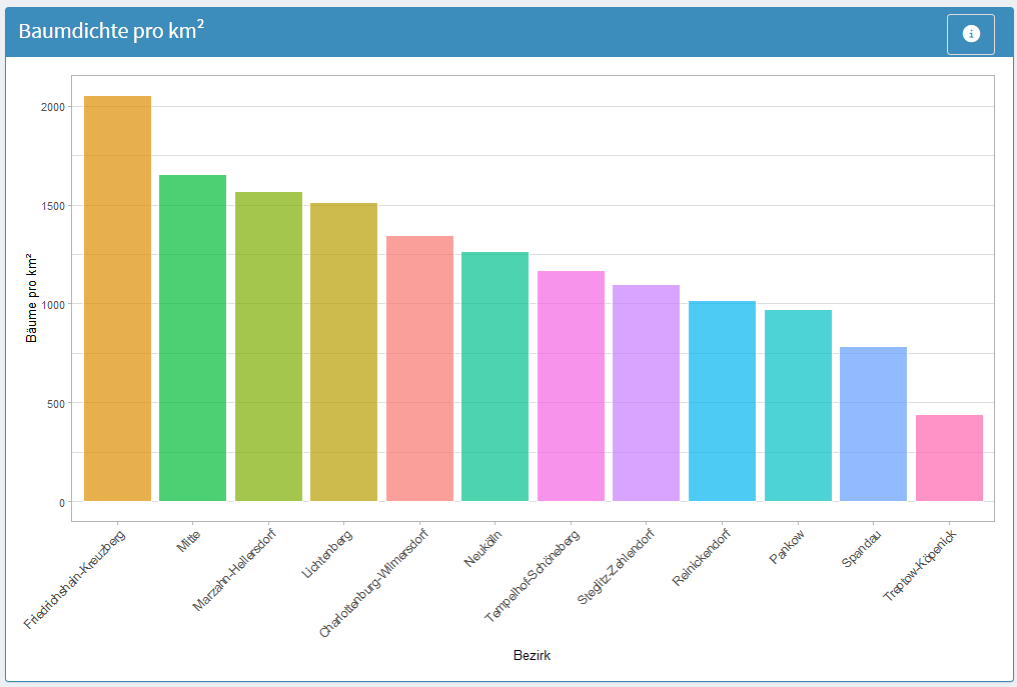
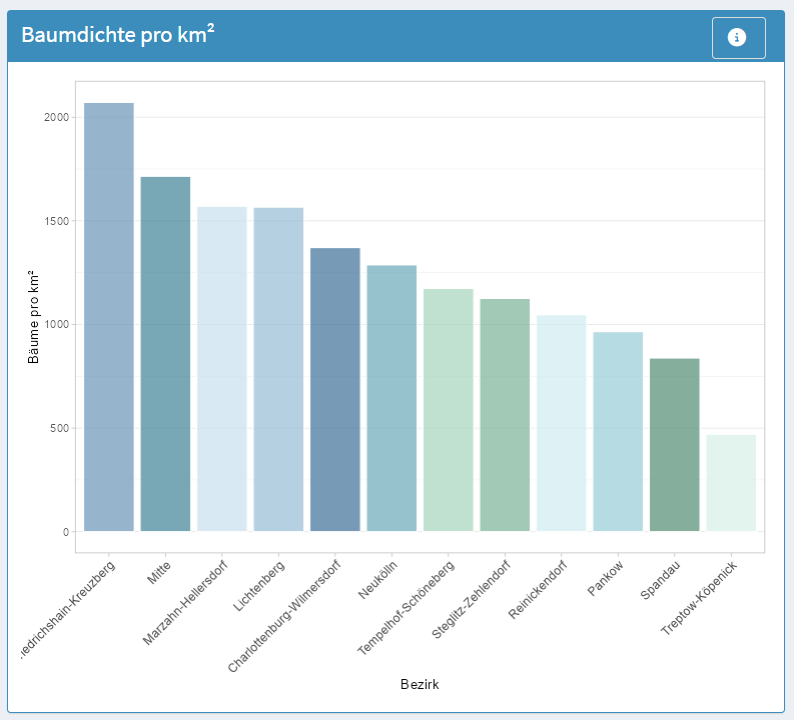
Update: 5.5

diff --git a/dashboard/Übung_Baumstatistik.md b/dashboard/Übung_Baumstatistik.md
@@ -43,6 +43,7 @@ Damit soll die Grundlage geschaffen werden, zu verstehen, welche strukturellen F
 ---
 name: Dashboard Karte
 alt: Ein Screenshot, der zeigt Dashboard Karte
+width: 600px
 ---
 Baumverteilung nach Bezirken und Baumgattungen. Die Abbildung zeigt die Verteilung der Bäume in den Berliner Bezirken, aufgeschlüsselt nach Baumgattungen. Die Anzahl der Bäume ist für jeden Bezirk als gestapeltes Balkendiagramm dargestellt, wobei die einzelnen Farbsegmente unterschiedliche Baumgattungen repräsentieren. Über einen Schieberegler kann die Anzahl der angezeigten, häufigsten Baumgattungen (Top-N) interaktiv angepasst werden, während weniger häufige Gattungen unter „Sonstige“ zusammengefasst sind. (Quelle: eigene Ausarbeitung)
 ``` 
@@ -64,7 +65,7 @@ Das obenstehende Diagramm ist ein Kreisdiagramm (auch Tortendiagramm genannt), d
 ---
 name: Dashboard Karte
 alt: Ein Screenshot, der zeigt Dashboard Karte
-width: 650px
+width: 600px
 ---
 Top 10 gegossene Baumgattungen. Die Abbildung zeigt die Top 10 gegossenen Baumgattungen in Berlin in Form eines horizontalen Balkendiagramms. Über ein Auswahlfeld kann der betrachtete Bezirk festgelegt werden, wodurch sich die dargestellten Werte entsprechend anpassen. Die Balken repräsentieren die absolute Anzahl gegossener Bäume je Gattung, wobei die Linde mit deutlichem Abstand an erster Stelle steht, gefolgt von Ahorn (ca. 250.000) und weiteren Gattungen mit jeweils deutlich geringeren Werten. Die x-Achse zeigt die Anzahl gegossener Bäume, die y-Achse die Baumgattungen. (Quelle: eigene Ausarbeitung)
 ``` 
@@ -229,10 +230,12 @@ Das erste Diagramm soll zeigen, wie viele Bäume in jedem Bezirk stehen und welc
 ```r  
 # 1. Stacked Bar Chart - Baumverteilung mit Gattungen
   output$tree_distribution_stacked <- renderPlot({
+    n_gen <- input$top_n_species
+    
     top_genera <- df_merged %>%
       filter(!is.na(gattung_deutsch)) %>%   
       count(gattung_deutsch, sort = TRUE) %>%
-      head(input$top_n_species) %>%
+      head(n_gen) %>%
       pull(gattung_deutsch)
 ```
 ````
@@ -242,9 +245,10 @@ Das erste Diagramm soll zeigen, wie viele Bäume in jedem Bezirk stehen und welc
 
 **Top-Gattungen ermitteln:**
 
+- `n_gen <- input$top_n_species` – speichert den Slider-Wert in einer Variable
 - `filter(!is.na(gattung_deutsch))` – entfernt Bäume ohne Gattungsangabe
 - `count(gattung_deutsch, sort = TRUE)` – zählt jede Gattung und sortiert absteigend
-- `head(input$top_n_species)` – wählt die Top-N häufigsten Gattungen (über UI-Slider steuerbar)
+- `head(n_gen)` – wählt die Top-N häufigsten Gattungen (gesteuert durch die Variable `n_gen`)
 - `pull(gattung_deutsch)` – extrahiert die Gattungsnamen als Vektor
 
 Diese Gattungsliste verwenden Sie später, um alle anderen Gattungen als "Sonstige" zu kennzeichnen.
@@ -293,21 +297,21 @@ Mit den aggregierten Daten erstellen Sie nun das gestapelte Balkendiagramm, das 
     df_agg$gattung_grouped <- factor(df_agg$gattung_grouped, 
                                      levels = c(top_genera, "Sonstige"))
     
+    # "Sonstige" bekommt Grau; Rest aus globaler Palette
+    n_gen <- input$top_n_species
+    fill_vals <- c(colorRampPalette(GDK_PALETTE_BASE)(n_gen), "#D3D3D3")
+    names(fill_vals) <- c(top_genera, "Sonstige")
+    
     ggplot(df_agg, aes(x = reorder(bezirk, count, sum), y = count, fill = gattung_grouped)) +
-      geom_bar(stat = "identity", position = "stack", color = "white", size = 0.3) +
-      labs(
-        title = NULL,
-        x = "Bezirk",
-        y = "Anzahl Bäume",
-        fill = "Baumgattung"
-      ) +
+      geom_bar(stat = "identity", position = "stack", color = "white", linewidth = 0.3) +
+      scale_fill_manual(values = fill_vals, name = "Baumgattung") +
+      labs(x = "Bezirk", y = "Anzahl Bäume") +
       theme_light() +
       theme(
         axis.text.x = element_text(angle = 45, hjust = 1, size = 10),
         legend.position = "right",
         panel.grid.major.x = element_blank()
-      ) +
-      scale_fill_brewer(palette = "Set3")
+      )
   })
 
   # Info button
@@ -375,23 +379,26 @@ Das Kreisdiagramm soll die prozentuale Zusammensetzung der Baumgattungen zeigen 
         label = paste0(gattung_grouped, "\n", round(percentage, 1), "%")
       )
     
+    n_slices  <- nrow(df_agg)
+    has_sonst <- "Sonstige" %in% df_agg$gattung_grouped
+    n_named   <- if (has_sonst) n_slices - 1 else n_slices
+    fill_vals <- c(colorRampPalette(GDK_PALETTE_BASE)(n_named),
+                   if (has_sonst) "#D3D3D3" else NULL)
+    names(fill_vals) <- df_agg$gattung_grouped
+    
     ggplot(df_agg, aes(x = "", y = count, fill = gattung_grouped)) +
-      geom_bar(stat = "identity", width = 1, color = "white", size = 0.5) +
+      geom_bar(stat = "identity", width = 1, color = "white", linewidth = 0.5) +
       coord_polar("y", start = 0) +
-      labs(
-        title = NULL,
-        fill = "Baumgattung"
-      ) +
+      scale_fill_manual(values = fill_vals, name = "Baumgattung") +
+      labs(title = NULL) +
       theme_void() +
       theme(
         legend.position = "right",
         legend.text = element_text(size = 9)
       ) +
-      scale_fill_brewer(palette = "Set3") +
       geom_text(aes(label = ifelse(percentage > 3, paste0(round(percentage, 1), "%"), "")),
-                position = position_stack(vjust = 0.5),
-                size = 3,
-                color = "black")
+                position = position_stack(vjust = 0.5), color = "white",
+                fontface = "bold", size = 3.5)
   })
 
   # Info button
@@ -433,7 +440,8 @@ Das Kreisdiagramm soll die prozentuale Zusammensetzung der Baumgattungen zeigen 
 **Kreisdiagramm erstellen:**
 
 - `coord_polar("y", start = 0)` – wandelt ein Balkendiagramm in ein Kreisdiagramm um
-- `geom_text(...)` – fügt Prozentangaben hinzu (nur bei Segmenten > 3%)
+- `scale_fill_manual(values = fill_vals, name = "Baumgattung")` – nutzt die globale Farbpalette für konsistentes Design
+- `geom_text(...)` – fügt Prozentangaben hinzu (nur bei Segmenten > 3%), weiß und fett formatiert
 - `theme_void()` – entfernt Achsen und Gitter für eine klare Darstellung
 
 Das Kreisdiagramm zeigt intuitiv, welche Gattungen den Baumbestand dominieren – ideal für schnelle Vergleiche zwischen Bezirken.
@@ -741,10 +749,12 @@ server <- function(input, output, session) {
   
   # 1. Stacked Bar Chart - Baumverteilung mit Gattungen
   output$tree_distribution_stacked <- renderPlot({
+    n_gen <- input$top_n_species
+    
     top_genera <- df_merged %>%
       filter(!is.na(gattung_deutsch)) %>%   
       count(gattung_deutsch, sort = TRUE) %>%
-      head(input$top_n_species) %>%
+      head(n_gen) %>%
       pull(gattung_deutsch)
       
     df_agg <- df_merged %>%
@@ -759,21 +769,20 @@ server <- function(input, output, session) {
     df_agg$gattung_grouped <- factor(df_agg$gattung_grouped, 
                                      levels = c(top_genera, "Sonstige"))
     
+    # "Sonstige" bekommt Grau; Rest aus globaler Palette
+    fill_vals <- c(colorRampPalette(GDK_PALETTE_BASE)(input$top_n_species), "#D3D3D3")
+    names(fill_vals) <- c(top_genera, "Sonstige")
+    
     ggplot(df_agg, aes(x = reorder(bezirk, count, sum), y = count, fill = gattung_grouped)) +
-      geom_bar(stat = "identity", position = "stack", color = "white", size = 0.3) +
-      labs(
-        title = NULL,
-        x = "Bezirk",
-        y = "Anzahl Bäume",
-        fill = "Baumgattung"
-      ) +
+      geom_bar(stat = "identity", position = "stack", color = "white", linewidth = 0.3) +
+      scale_fill_manual(values = fill_vals, name = "Baumgattung") +
+      labs(x = "Bezirk", y = "Anzahl Bäume") +
       theme_light() +
       theme(
         axis.text.x = element_text(angle = 45, hjust = 1, size = 10),
         legend.position = "right",
         panel.grid.major.x = element_blank()
-      ) +
-      scale_fill_brewer(palette = "Set3")
+      )
   })
 
   observeEvent(input$info_btn_bvnb, {
@@ -813,22 +822,26 @@ server <- function(input, output, session) {
         label = paste0(gattung_grouped, "\n", round(percentage, 1), "%")
       )
     
+    n_slices  <- nrow(df_agg)
+    has_sonst <- "Sonstige" %in% df_agg$gattung_grouped
+    n_named   <- if (has_sonst) n_slices - 1 else n_slices
+    fill_vals <- c(colorRampPalette(GDK_PALETTE_BASE)(n_named),
+                   if (has_sonst) "#D3D3D3" else NULL)
+    names(fill_vals) <- df_agg$gattung_grouped
+    
     ggplot(df_agg, aes(x = "", y = count, fill = gattung_grouped)) +
-      geom_bar(stat = "identity", width = 1, color = "white", size = 0.5) +
+      geom_bar(stat = "identity", width = 1, color = "white", linewidth = 0.5) +
       coord_polar("y", start = 0) +
-      labs(
-        title = NULL,
-        fill = "Baumgattung"
-      ) +
+      scale_fill_manual(values = fill_vals, name = "Baumgattung") +
+      labs(title = NULL) +
       theme_void() +
       theme(
         legend.position = "right",
         legend.text = element_text(size = 9)
       ) +
-      scale_fill_brewer(palette = "Set3") +
       geom_text(aes(label = ifelse(percentage > 3, paste0(round(percentage, 1), "%"), "")),
-                position = position_stack(vjust = 0.5),
-                color = "black")
+                position = position_stack(vjust = 0.5), color = "white",
+                fontface = "bold", size = 3.5)
   })
 
   observeEvent(input$info_btn_vdb, {
